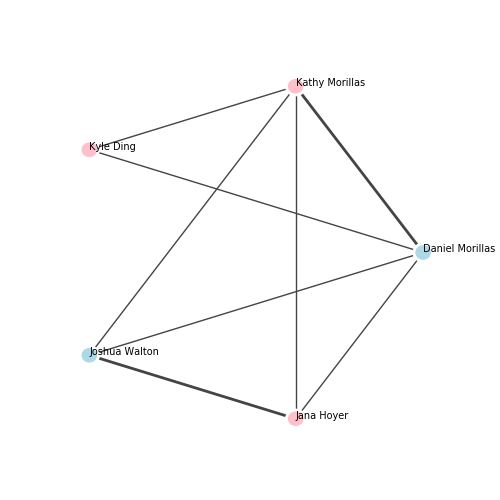
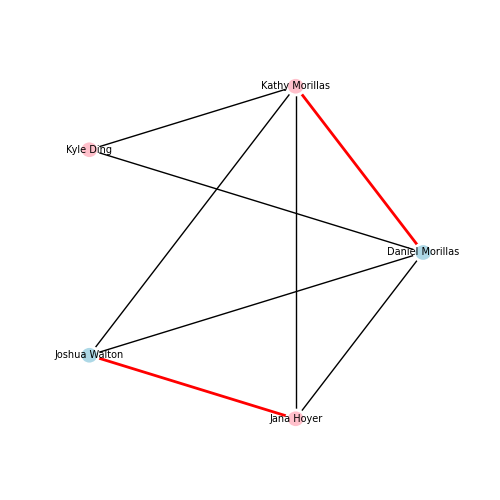
Custom edge colors

diff --git a/doc/source/tutorials/quickstart/assets/quickstart.py b/doc/source/tutorials/quickstart/assets/quickstart.py
@@ -30,6 +30,7 @@ ig.plot(
     vertex_label=g.vs["name"],
     vertex_label_size=7.0,
     edge_width=[2 if married else 1 for married in g.es["married"]],
+    edge_color=["#F00" if married else "#000" for married in g.es["married"]],
 )
 
 plt.show()

diff --git a/doc/source/tutorials/quickstart/quickstart.rst b/doc/source/tutorials/quickstart/quickstart.rst
@@ -46,6 +46,7 @@ This example is aimed at those with some familiarity with python and/or graphing
         vertex_label=g.vs["name"],
         vertex_label_size=7.0,
         edge_width=[2 if married else 1 for married in g.es["married"]],
+        edge_color=["#F00" if married else "#000" for married in g.es["married"]],
     )
 
     plt.show()
